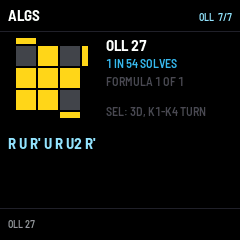
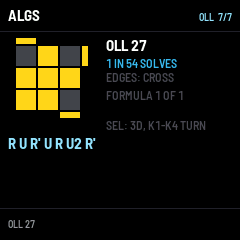
CUBE: learn full OLL by the six-move fallback (cross, L / line, dot)
51 of the 57 OLL cases are equally frequent, so frequency cannot order them.
The learning order now goes cross cases first (2-look's OCLL), then the L and
line cases (one F R U R' U' F' from the cross), the dot cases last; frequency
and length order each tier. The case screen names the edge shape. Tests check
the tiers (7, 42, 8) and the dot : L : line states (27 : 108 : 54 of 216).

Changed region(s): [[0.4375, 0.2917, 0.875, 0.5542]]

diff --git a/firmware/cube/algs.c b/firmware/cube/algs.c
@@ -518,16 +518,34 @@ int alg_freq(int i, int *den)
     return 0;
 }
 
-/* the order to learn a set in: the most frequent first, the shortest of equals first (positions in the set) */
+/* an OLL case's edges on top, as 2-look OLL sees them: 4 the cross (only the corners left), 2 an L or a line (one
+ * F R U R' U' F' from the cross), 0 a dot (two); *line: the two are opposite. -1: not a full OLL case */
+int alg_oll_edges(int i, int *line)
+{
+    static const uint8_t E[4] = {1, 5, 7, 3};   /* U's edge stickers, going round */
+    cube_t c;
+    int k, n = 0, up[4];
+    if (line) *line = 0;
+    if (alg_get(i)->set != ALG_OLL) return -1;
+    alg_case(i, &c, 0);
+    for (k = 0; k < 4; k++) n += up[k] = c.f[E[k]] == c.f[4];
+    if (line && n == 2) *line = up[0] == up[2];
+    return n;
+}
+
+/* the order to learn a set in: the most frequent first, the shortest of equals first (positions in the set). OLL
+ * goes by the six-move fallback first: the cross cases (2-look's own), then the L and line cases, the dots last, so
+ * a case not learned yet is always one look or two away by the 2-look route */
 int alg_learn_order(int set, uint8_t *out)
 {
     int n = alg_count(set), k, j;
-    int key[SR_ORDER_MAX];
+    int32_t key[SR_ORDER_MAX];
     for (k = 0; k < n && k < SR_ORDER_MAX; k++) {
-        int i = alg_index(set, k), den, f = alg_freq(i, &den), len;
+        int i = alg_index(set, k), den, f = alg_freq(i, &den), len, tier = 0;
         uint8_t m[ALG_MAX];
         len = alg_moves(i, m);
-        key[k] = (f ? (1000 - f * 1000 / den) : 0) * 64 + len;   /* (frequency down, length up) */
+        if (set == ALG_OLL) tier = 2 - alg_oll_edges(i, 0) / 2;   /* cross 0, L / line 1, dot 2 */
+        key[k] = ((int32_t)tier * 1001 + (f ? (1000 - f * 1000 / den) : 0)) * 64 + len;   /* (tier, frequency down, length up) */
         out[k] = (uint8_t)k;
     }
     for (k = 1; k < n; k++) {            /* insertion sort, stable */

diff --git a/firmware/cube/tests/cube_test.c b/firmware/cube/tests/cube_test.c
@@ -389,6 +389,27 @@ static void test_freq(void)              /* every last-layer state counted: alg_
             CHECK(f == 4, "PLL last is a 1/72 one (%s)", alg_get(alg_index(ALG_PLL, o[20]))->name);
         }
     }
+    {                                    /* OLL: the cross cases first (21-27), the dots last (1-4, 17-20) */
+        static const int DOT[8] = {1, 2, 3, 4, 17, 18, 19, 20};
+        uint8_t o[SR_ORDER_MAX];
+        int n = alg_learn_order(ALG_OLL, o), k, tiers[5] = {0}, line, w[3] = {0};   /* w: states (of 216) dot, L, line */
+        CHECK(n == 57, "OLL order %d", n);
+        for (k = 0; k < 57; k++) {
+            int ed = alg_oll_edges(alg_index(ALG_OLL, k), &line);
+            CHECK(ed == 0 || ed == 2 || ed == 4, "OLL %d edges %d", k + 1, ed);
+            if (ed >= 0 && ed <= 4) tiers[ed]++;
+            if (ed == 0 || ed == 2) w[ed == 0 ? 0 : 1 + line] += alg_freq(alg_index(ALG_OLL, k), &den);
+        }
+        CHECK(tiers[4] == 7 && tiers[2] == 42 && tiers[0] == 8, "OLL tiers %d %d %d", tiers[4], tiers[2], tiers[0]);
+        CHECK(w[0] == 27 && w[1] == 108 && w[2] == 54, "OLL edge states dot %d L %d line %d", w[0], w[1], w[2]);   /* 1, 4, 2 of the 8 */
+        for (k = 0; k < 7; k++) CHECK(o[k] >= 20 && o[k] <= 26, "OLL order %d: OLL %d is not a cross case", k, o[k] + 1);
+        for (k = 0; k < 8; k++) {
+            int j, in = 0;
+            for (j = 0; j < 8; j++) in |= o[49 + k] + 1 == DOT[j];
+            CHECK(in, "OLL order %d: OLL %d is not a dot case", 49 + k, o[49 + k] + 1);
+        }
+        CHECK(alg_oll_edges(alg_index(ALG_PLL, 0), 0) == -1, "edges of a PLL");
+    }
 }
 
 static void test_patterns(void)

diff --git a/firmware/cube/app.c b/firmware/cube/app.c
@@ -206,7 +206,7 @@ static void drill_courses(void)
     for (i = 0; i < (int)SR_MAX; i++) d_seg[i] = 0, d_key[i] = SR_NOKEY;
     for (s = 0; s < ALG_SETS; s++) {
         int n = alg_count(s), g = 0;
-        if (s == ALG_OLL || s == ALG_PLL) alg_learn_order(s, d_order[s]);   /* most frequent, then shortest, first */
+        if (s == ALG_OLL || s == ALG_PLL) alg_learn_order(s, d_order[s]);   /* most frequent, then shortest, first (OLL: by edges first) */
         else
             for (i = 0; i < n && i < SR_ORDER_MAX; i++) d_order[s][i] = (uint8_t)i;   /* the steps as they come */
         for (i = 4; i < n; i += 4) d_groups[s][g++] = (uint8_t)i;
@@ -1762,6 +1762,11 @@ static void draw_algs(int32_t oy)
         int32_t y = gtext_wrap(106, 6 - oy, 130, 18, &FONT_B, a->name, C_WHITE);
         freq_text(alg_cur(), t);
         if (t[0]) cv_text(106, y, &FONT_XS, t, C_AMB), y += 14;
+        {
+            int line, e = alg_oll_edges(alg_cur(), &line);   /* what 2-look does with it, if not learned yet */
+            if (e >= 0)
+                cv_text(106, y, &FONT_XS, e == 4 ? "EDGES: CROSS" : e == 0 ? "EDGES: DOT" : line ? "EDGES: LINE" : "EDGES: L", C_DIM), y += 14;
+        }
         t[0] = 0;
         tcat(t, "FORMULA ");
         tint(t, ui.alg_form + 1);

diff --git a/firmware/cube/algs.h b/firmware/cube/algs.h
@@ -52,7 +52,9 @@ int alg_group_item(int g, int k);        /* entry index of the k-th case of grou
 int alg_group_of(int i);
 int alg_freq(int i, int *den);           /* how often it comes up: returns the count out of *den (0: not counted) */
 #define SR_ORDER_MAX 64
-int alg_learn_order(int set, uint8_t *out);   /* positions, most frequent (then shortest) first; returns n */
+int alg_learn_order(int set, uint8_t *out);   /* positions, most frequent (then shortest) first; OLL: cross cases,
+                                                 * then L / line, dots last; returns n */
+int alg_oll_edges(int i, int *line);     /* OLL case's edges on top: 4, 2 (line: opposite) or 0; -1 not OLL */
 /* what entry i's formulas reach, on cube c after one of them (any whole-cube rotation undone): OLL the last layer
  * oriented, PLL solved, F2L the first two layers, 2-look PLL's corner cases the corners placed, LBL solved (all up
  * to a last turn of one layer) */
